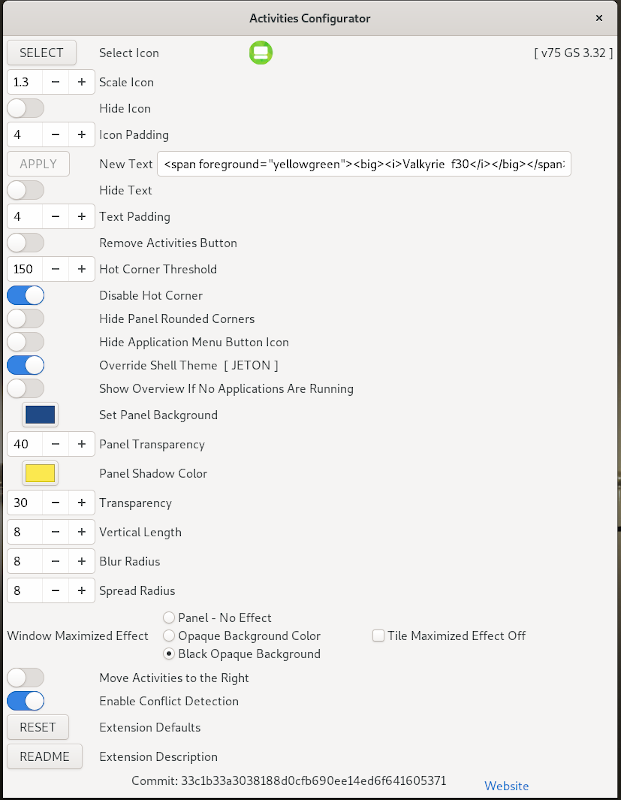
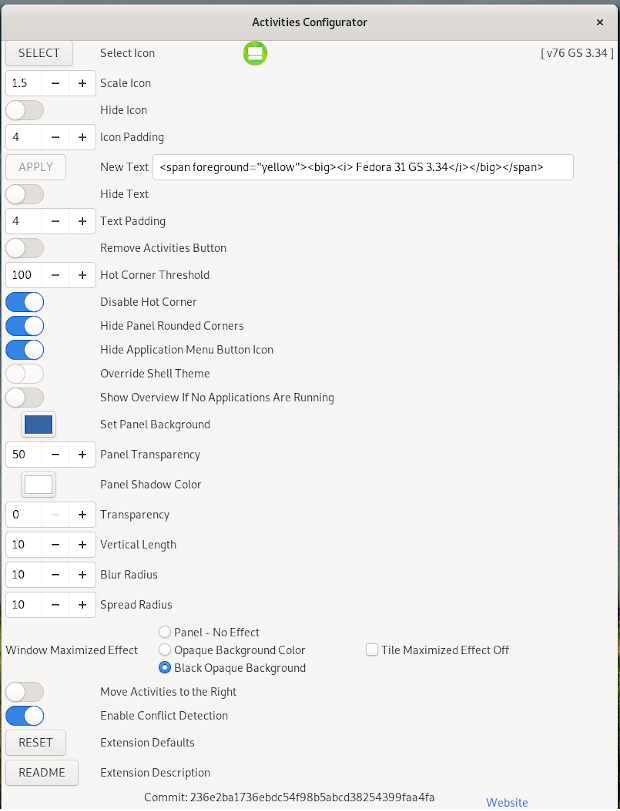
Activities Configurator - updated for GS 3.34 version 76

Changed region(s): [[0.0, 0.0, 1.0, 1.0], [0.5823, 0.7812, 0.8581, 0.8125], [0.7661, 0.9688, 0.8581, 1.0]]

diff --git a/features.html b/features.html
@@ -25,7 +25,6 @@ footer { font-family: Verdana, sans-serif; margin:5px; font-size:0.7em; backgrou
 <td align="center"><h5><center><a href="./hot_corner.html" target="Right">Under Construction</a></center></h5></td>
 </tr>
 </table>
-<p><b>Ubuntu 17.10 18.04</b> users please see Under Construction.  The Activities Configurator is now compatible with Ubuntu 17.10.  Note update to version 65 corrects "Error: Requiring Clutter ..." for Ubuntu 18.04.</p>
   		 <h4>Activities Configurator Extension Features</h4>
        <ul>
         <li>The Gnome Shell Extension Preferences tool can be executed by a secondary mouse click on the Activities Text or Icon.</li>

diff --git a/latestupdate.html b/latestupdate.html
@@ -18,6 +18,11 @@ Install Activities Configurator from the Gnome Shell Extension Website
 Download the zip-file for the Activities Configurator extension from the Gnome Shell Extension Website.
 </a>
 
+<h4>Update Version 76 GS 3.34</h4>
+<p>
+Usage of object.actor is deprecated.  Corrected object.actor instances.
+</p>
+
 <h4>Update Version 75 GS 3.32</h4>
 <p>
 User reported unable to close a message concerning missing hot corners. POP OS 19.04 is based on Ubuntu which has

diff --git a/activities_config_zip.html b/activities_config_zip.html
@@ -26,8 +26,14 @@
 <td><h3>Activities Configurator</h3></td>
 <td>&nbsp&nbsp&nbsp</td>
 <td><h3>Gnome Shell Version(s)</h3></td>
+
+</tr>
+<td><a href="https://extensions.gnome.org/review/download/12037.shell-extension.zip">v76</a></td><td>&nbsp&nbsp&nbsp</td>
+<td><strong>3.34</strong></td>
 </tr>
 
+
+</tr>
 <td><a href="https://extensions.gnome.org/review/download/10768.shell-extension.zip">v75</a></td><td>&nbsp&nbsp&nbsp</td>
 <td><strong>3.32</strong></td>
 </tr>
